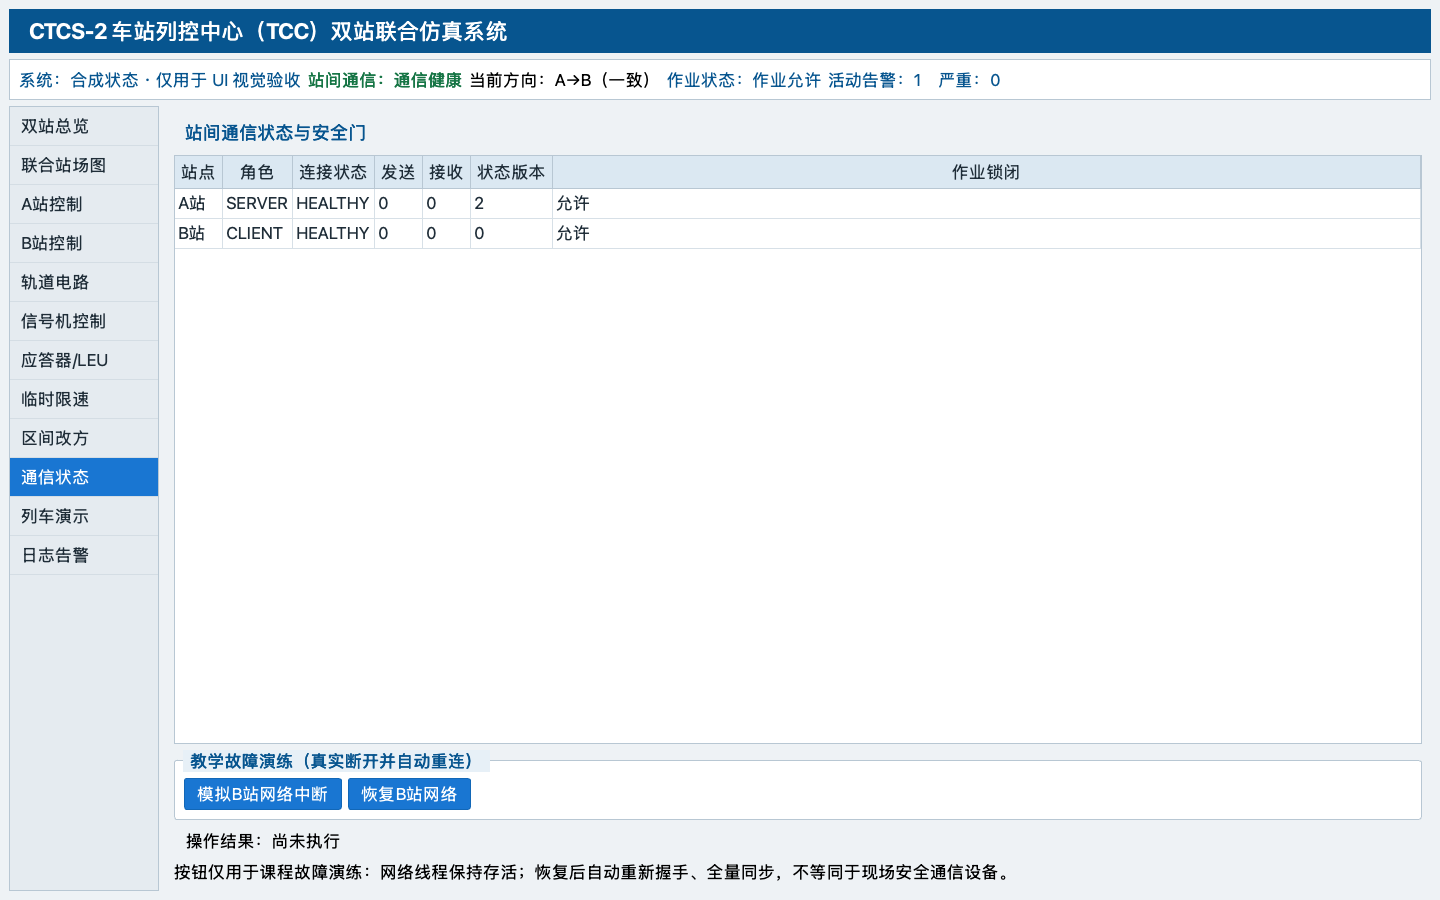
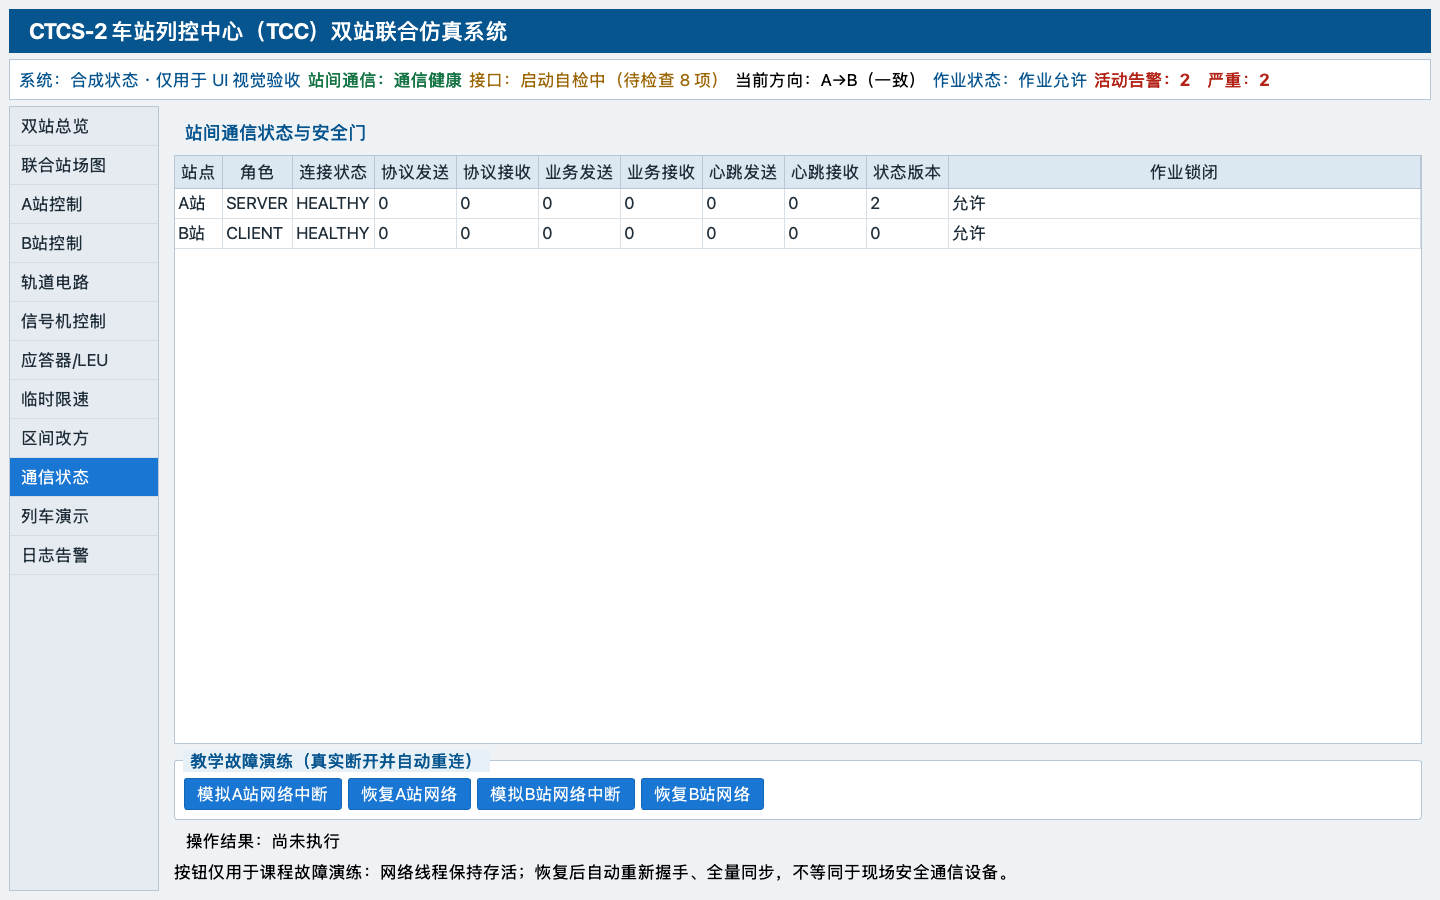
docs: record ctcs2 specification acceptance evidence

diff --git a/tests/integration/test_ctcs2_spec_scenarios.py b/tests/integration/test_ctcs2_spec_scenarios.py
@@ -1,0 +1,62 @@
+"""CTCS-2 规范场景验收矩阵：把关键要求绑定到可执行证据。"""
+
+import json
+from pathlib import Path
+
+from app.core.interface_models import InterfaceId, StartupStep
+from app.domain.temporary_speed import CTCS2_TSR_SPEEDS_KMH
+from app.services.demo_scenarios import DELIVERY_SCENARIOS
+
+
+ROOT = Path(__file__).resolve().parents[2]
+
+
+def test_delivery_catalog_covers_all_ctcs2_demo_scenario_ids() -> None:
+    scenario_ids = {item.scenario_id for item in DELIVERY_SCENARIOS}
+    assert scenario_ids == {
+        "all-clear",
+        "block-occupied",
+        "track-fault",
+        "red-lamp-failure",
+        "temporary-speed",
+        "direction-change-normal",
+        "direction-change-disconnect",
+    }
+    for scenario in DELIVERY_SCENARIOS:
+        assert scenario.preconditions
+        assert scenario.control_object_names
+        assert scenario.steps
+        assert scenario.expected_results
+        assert scenario.reset_steps
+
+
+def test_ctcs2_spec_configuration_matrix_is_complete() -> None:
+    rules = json.loads((ROOT / "configs" / "ctcs2_tsr_levels.json").read_text())
+    assert tuple(rules["allowed_speeds_kmh"]) == CTCS2_TSR_SPEEDS_KMH
+    assert rules["overlap_m"] == 80
+    assert set(rules["required_fields"]) == {
+        "start_m",
+        "end_m",
+        "braking_distance_m",
+        "tcc_id",
+        "update_point",
+    }
+    coding = json.loads((ROOT / "configs" / "ctcs2_coding_rules.json").read_text())
+    protection = json.loads(
+        (ROOT / "configs" / "ctcs2_protection_rules.json").read_text()
+    )
+    assert coding["offline_code"] == "OFFLINE"
+    assert protection["unknown_state_action"] == "HU"
+
+
+def test_interface_and_startup_matrix_matches_ctcs2_requirement() -> None:
+    assert tuple(InterfaceId) == tuple(InterfaceId(letter) for letter in "PQRSTUVW")
+    assert tuple(step.interface_id for step in StartupStep) == (
+        InterfaceId.R,
+        InterfaceId.T,
+        InterfaceId.R,
+        InterfaceId.T,
+        InterfaceId.Q,
+        InterfaceId.U,
+        InterfaceId.S,
+    )

diff --git a/scripts/capture_dual_dashboard.py b/scripts/capture_dual_dashboard.py
@@ -72,6 +72,7 @@ def main() -> int:
             (8, "direction"),
             (9, "network"),
             (10, "train"),
+            (11, "logs"),
         )
         for width, height in ((1280, 800), (1440, 900), (1920, 1080)):
             window.resize(width, height)

diff --git a/docs/acceptance/CTCS2_SPEC_ACCEPTANCE.md b/docs/acceptance/CTCS2_SPEC_ACCEPTANCE.md
@@ -1,0 +1,68 @@
+# CTCS-2 规范场景验收记录
+
+验收日期：2026-09-27  
+分支：`codex/dual-station-dashboard`  
+工作树：`/Users/zhu/Desktop/TCC-project/.worktrees/ctcs2-rebuild`
+
+本记录用于课程设计软件验收，不是现场铁路设备鉴定。JSON、HEX、CRC32、教学位流
+均属于 `simulation_envelope`；2 乘 2 取 2、SIL4、MTBF、物理冗余和安全通信只在
+教学诊断模型中表达，不宣称 Python/Qt 达到现场安全等级。
+
+## 自动化证据
+
+```bash
+PYTHONPYCACHEPREFIX=/tmp/tcc-pycache QT_QPA_PLATFORM=offscreen \
+  .venv/bin/python -m pytest -q -p no:cacheprovider \
+  --basetemp=/tmp/tcc-pytest-bt
+```
+
+阶段 8 新增规范矩阵测试 3 项通过；阶段 0～7 全量回归在允许本机回环 TCP 端口的
+环境中最终为 `321 passed in 7.78s`。普通受限沙箱
+禁止绑定临时端口时，真实 TCP 用例会得到 `PermissionError`，这属于环境限制，不
+替代业务失败证据。
+
+## 规范要求与证据矩阵
+
+| 范围 | 软件证据 | 场景/测试 |
+|---|---|---|
+| 双站身份与接口 | A/B 独立配置、P/Q/R/S/T/U/V/W 状态模型、启动自检顺序 | `test_ctcs2_spec_scenarios.py`、`test_startup_self_check.py` |
+| 本地权威与站间确认 | A/B 本地轨道/信号/进路/LEU 状态，方向事务双方复核 | `test_local_authority_state.py`、`test_interstation_agreement.py`、改方集成测试 |
+| 轨道占用/故障/分路不良 | `FAULT_OCCUPIED`、`SHUNT_BAD`、HU 防护、顺序出清、编码离线红灯 | `test_track_protection_cases.py`、七类场景中的轨道故障 |
+| 区间信号与进路 | 进路前置条件由控制器判断，信号由码序/继电器/防护结果导出 | `test_signal_control.py`、`test_route_control.py`、`all-clear`/`red-lamp-failure` |
+| 应答器/LEU | 20% 容量余量、默认回落、选择审计、逻辑字段/教学位流/仿真封装分层 | `test_leu_capacity_and_audit.py`、`test_logical_telegram.py` |
+| 临时限速 | 45/80/120/160/200/250 km/h、80 m 重叠保护、制动距离/TCC/更新点 | `test_ctcs2_tsr_rules.py`、`temporary-speed` |
+| 站间断链 | 已有方向/限速/报文保持；断链后锁闭，重连全量同步和复核 | `test_dual_station_end_to_end.py`、`test_interface_failure_recovery.py` |
+| 列车演示 | 拓扑驱动 2D 线路、列车选择、逐段占用、应答器更新、选中列车复位重发车 | `test_train_projection.py`、`test_train_2d_view.py`、`test_dual_train_coordinator.py` |
+| 日志告警 | A 上 B 下逐条事件，活动/恢复文字，最多 200 条，心跳不入业务日志 | `test_dual_log_page.py`、`test_tcc_controller.py` |
+
+## 场景执行结果
+
+1. 启动自检与双站握手：启动状态先显示 `INITIALIZING`，失败不会伪造健康；真实
+   TCP 测试验证 HELLO/ACK、全量同步、健康状态和关闭资源回收。
+2. A→B 运行：建立 `A_DEPART` 后，列车通过 `TrainProjectionMapper` 映射到
+   `A_T1 → A_T2 → Q1…Q4 → B_T2 → B_T1`，区段先占后清，最后应答器字段更新。
+3. 选中列车复位：下拉框保存稳定 `train_id`；`reset_train()` 成功后回到
+   `WAITING`、递增 `lifecycle_version`，可再次派发；失败保留停车和保守占用。
+4. 故障占用/分路不良：HU 和红灯防护保持，按后方出清顺序完成后才撤防，逐条
+   告警可在 A/B 日志页查看。
+5. 正常/异常改方：空闲且无冲突进路时完成事务；占用、方向不一致、通信异常或
+   事务超时保持安全锁闭，不由 UI 绕过控制器。
+6. 临时限速和 LEU：六档等级、重叠禁止、容量不足、LEU 断联默认回落及审计原因
+   均有单元/集成证据；逻辑报文不冒充现场位流。
+7. A/B 对称断链：通信页分别提供 A、B 链路故障入口，区间改方页提供逻辑对端
+   断链入口；三者都只调用后端故障注入接口，恢复后自动重连和全量同步。
+
+## UI 证据边界
+
+三分辨率合成截图由 `scripts/capture_dual_dashboard.py` 生成，仅用于检查方案一
+经典控制台风格、关键字段可见性、2D 列车和 A/B 日志布局；不能证明 TCP 握手。
+真实通信、状态和资源证据以 pytest 集成为准。建议重新生成：
+
+```bash
+QT_QPA_PLATFORM=offscreen .venv/bin/python scripts/capture_dual_dashboard.py
+```
+
+## 结论
+
+阶段 0～7 的代码、测试和交接账本已完成；阶段 8 的自动化规范矩阵、场景证据和
+交付文档已纳入仓库。软件可用于 CTCS-2 课程答辩演示，不得用于真实铁路行车控制。

diff --git a/docs/sdd-ledger/08-ctcs2-spec-and-ui-train-optimization-progress.md b/docs/sdd-ledger/08-ctcs2-spec-and-ui-train-optimization-progress.md
@@ -16,8 +16,8 @@
 - 阶段 4：已完成（`87cf2eb`，已推送）
 - 阶段 5：已完成（`cc1880b`，已推送）
 - 阶段 6：已完成（`aa366d3`，已推送）
-- 阶段 7：未开始
-- 阶段 8：未开始
+- 阶段 7：已完成（`3c9446c`，已推送）
+- 阶段 8：已完成（交付证据待本次提交）
 
 ## 阶段 0 完成记录
 
@@ -137,3 +137,33 @@
 - 代码提交 `aa366d3` 已推送到 `origin/codex/dual-station-dashboard`。
 - 交接下一步：阶段 7 组合页面、下拉框统一策略和交互一致性；重点验证列车场景、日志
   页面和全局安全锁闭在刷新时保持同步。
+
+## 阶段 7 完成记录
+
+- 统一列车角色下拉框最小宽度与弹出宽度测试，验证方向、运行状态等长文本不会被截断；
+  既有站点、区段、信号、进路、方向和限速下拉框继续经过 `configure_combo_box()`。
+- 列车页面全部复位按钮纳入双站聚合安全锁闭门禁，锁闭原因仍由快照聚合器提供，UI
+  不自行判断通信或方向规则。
+- 通信页新增 A 站网络中断/恢复入口，保留 B 站入口；两者均通过运行时故障注入接口，
+  另有区间改方页的逻辑对端断链演练，覆盖 A/B/逻辑链路三类教学路径。
+- 阶段定向测试 `21 passed`；允许本机回环端口的全量回归 `318 passed in 7.81s`；
+  `git diff --check`、`compileall` 通过。
+- 代码提交 `3c9446c` 已推送到 `origin/codex/dual-station-dashboard`。
+- 交接下一步：阶段 8 规范场景验收、截图/日志证据、README 和最终交付记录；只有完成
+  场景证据后才能宣称本轮 CTCS-2 改造交付完成。
+
+## 阶段 8 完成记录
+
+- 新增 `tests/integration/test_ctcs2_spec_scenarios.py`，绑定七类课程场景目录、
+  CTCS-2 六档限速/80 m 重叠/必需字段、编码离线与 HU 防护配置、P/Q/R/S/T/U/V/W
+  接口及启动自检映射；规范矩阵 3 项通过。
+- 新增 `docs/acceptance/CTCS2_SPEC_ACCEPTANCE.md`，逐项记录规范要求、软件落点、
+  自动化测试、场景边界和教学免责声明；同步修正 README/交付场景中的 A/B 本地
+  权威语义，不再把 A Server 描述成 B 站永久投影权威。
+- `scripts/capture_dual_dashboard.py` 增加日志告警页截图；重新生成 1280×800、
+  1440×900、1920×1080 的总览、线路、改方、网络、列车、A/B 日志共 18 张合成图，
+  并完成列车页与日志页目视抽查。图片只证明布局，不替代真实 TCP 证据。
+- 最终完整回归：`321 passed in 7.78s`（允许本机回环 TCP 端口）；`compileall`、
+  `git diff --check` 和截图脚本通过。
+- 阶段 8 代码/文档/证据提交待本次提交后补写；本轮方案完成后，如有新需求须先建立
+  新阶段方案并继续使用防中断账本。

diff --git a/docs/HANDOFF_交接说明.md b/docs/HANDOFF_交接说明.md
@@ -7,7 +7,7 @@
 - 项目：CTCS-2 车站列控中心（TCC）A/B 双站教学仿真
 - 工作树：`/Users/zhu/Desktop/TCC-project/.worktrees/ctcs2-rebuild`
 - 分支：`codex/dual-station-dashboard`
-- 代码状态：阶段 0～阶段 6 已完成；工作区干净，远端已同步
+- 代码状态：阶段 0～阶段 8 已完成；工作区干净，远端已同步
 - 方案：`docs/tcc-vibe-plans/08-ctcs2-spec-and-ui-train-optimization.md`
 
 ## 本次方案已覆盖
@@ -29,20 +29,20 @@
 4. 阶段 3：应答器/LEU、临时限速和断链保持（已完成）；
 5. 阶段 4：接口状态、启动自检和诊断教学模型（已完成）；
 6. 阶段 5：实现列车 2D 场景和可重复生命周期（已完成）；
-7. 阶段 6～7：实现 A/B 日志页及页面集成（阶段 6 已完成，阶段 7 未开始）；
-8. 阶段 8：按规范场景做全量验收和交付。
+7. 阶段 6～7：实现 A/B 日志页及页面集成（阶段 6、7 已完成）；
+8. 阶段 8：按规范场景做全量验收和交付（已完成）。
 
 ## 最近一次阶段记录
 
-- 阶段：6
+- 阶段：8
 - 状态：已完成
-- 代码提交：`aa366d3 feat(ui): split station logs and alarms into row-based panels`
+- 代码提交：待提交（阶段 8 交付证据）
 - 推送分支：`origin/codex/dual-station-dashboard`
-- 定向测试：日志页、告警历史、控制器和双站主窗口共 30 项通过（真实 TCP 另纳入全量）
-- 全量测试：`316 passed in 8.05s`（允许本机回环端口）
-- 产物：`TccSnapshot.alarm_history`、`LogAlarmRow`、`DualLogAlarmPage`，A/B 上下表格、逐条操作/告警/恢复事件、每站 200 条上限
-- 关键语义：活动/已恢复状态用文字表达；告警恢复时间优先使用 `cleared_at_ms`；未把心跳活性刷新写入业务日志；长说明保留 tooltip
-- 下一步：阶段 7，组合页面、统一下拉宽度和交互门禁；开始前重新读取本文件、总控方案和阶段 7 小节
+- 定向测试：规范矩阵 3 项通过；完整规范/真实 TCP/UI 回归共 321 项通过
+- 全量测试：`321 passed in 7.78s`（允许本机回环端口）
+- 产物：`CTCS2_SPEC_ACCEPTANCE.md`、更新后的答辩场景/README、18 张三分辨率合成截图、规范矩阵测试
+- 关键语义：A/B 各自维护本站局部权威；Server/Client 只表示 TCP 建链顺序；规范边界、2D 列车、A/B 日志和三类断链入口均有可重建证据
+- 下一步：本轮方案完成；若继续开发，先创建新的阶段方案，不要在无新验收门槛时直接修改已交付功能
 
 ## 固定验证命令
 

diff --git a/README.md b/README.md
@@ -40,10 +40,11 @@ python3.12 -m venv .venv
 .venv/bin/python run_dual.py
 ```
 
-该进程内装配两套相互独立的控制器、SQLite 仓库和网络线程；A 仍作为
-Server 完成 `bind + listen`，B 仍作为 Client 通过真实 `127.0.0.1` TCP
-握手、同步和重连，并非用内存调用伪造站间通信。窗口提供 12 个页面：双站
-总览、联合站场图、A/B 站控制、轨道电路、信号机、应答器/LEU、临时限速、
+该进程内装配两套相互独立的控制器、SQLite 仓库和网络线程；A 作为
+Server 完成 `bind + listen`，B 作为 Client 通过真实 `127.0.0.1` TCP
+握手、同步和重连，这只是通信启动顺序，并不代表 A 永久拥有 B 的业务真值。
+A、B 各自维护本站轨道、信号、进路和 LEU 的本地权威状态，区间方向/闭塞等
+共享条件须经双方事务确认。窗口提供 12 个页面：双站总览、联合站场图、A/B 站控制、轨道电路、信号机、应答器/LEU、临时限速、
 区间改方、通信状态、列车演示和日志告警。
 
 需要分站诊断时可分别启动单站：
@@ -82,12 +83,16 @@ PYTHONPYCACHEPREFIX=/tmp/tcc-pycache \
 视觉证据见
 [`docs/acceptance/DUAL_STATION_FINAL_ACCEPTANCE.md`](docs/acceptance/DUAL_STATION_FINAL_ACCEPTANCE.md)。
 
+CTCS-2 规范要求追踪与阶段场景验收见
+[`docs/acceptance/CTCS2_SPEC_ACCEPTANCE.md`](docs/acceptance/CTCS2_SPEC_ACCEPTANCE.md)。
+
 列车页是教学动画：必须先建立当前方向的发车进路，再创建并发送列车。列车
 占用只写 `TRAIN` 来源，复位或跨区出清不会清除人工占用、故障占用或分路不良。
 
 ## 关键安全降级规则
 
-- A Server 是唯一区间方向权威；B 只保存投影。
+- A/B 各自维护本站局部权威；A Server/B Client 只表示教学仿真的 TCP 建链顺序，
+  不能把 B 站当作 A 站投影。区间方向和闭塞使用双方确认的共享事务。
 - 启动、断线、快照过期、改方未确认或恢复未完成时，进路锁闭且信号保持红灯。
 - A 的新权威方向必须先持久化，再在内存 APPLY 并发送 COMMIT。
 - 数据库权威方向读取失败时阻止启动，不能用默认方向覆盖未知历史真值。

diff --git a/docs/DELIVERY_SCENARIOS.md b/docs/DELIVERY_SCENARIOS.md
@@ -65,7 +65,14 @@
 
 ## 列车演示补充
 
-当前方向为 `A_TO_B` 时在 A 建立 `A_DEPART`，随后在“列车演示”页依次单击“添加待发列车”“发送选中列车”“开始仿真”；反向时在 B 建立 `B_DEPART`。唯一联合协调器按 `A_T1 → A_T2 → Q1～Q4 → B_T2 → B_T1`（反向严格逆序）运行，区段顺序和长度来自 `configs/topology.json`，没有 G01～G08 硬编码。状态表持续显示列车 ID、方向、区段、位置、当前/目标速度、前方距离、最后应答器和安全状态。该动画只用于观察 TCC 联动，不表示真实列车动力学、制动曲线或车载 ATP 行为。
+当前方向为 `A_TO_B` 时在 A 建立 `A_DEPART`，随后在“列车演示”页先从“列车：▼”下拉框确认列车，再依次单击“发送选中列车”“开始仿真”；反向时在 B 建立 `B_DEPART`。唯一联合协调器按 `A_T1 → A_T2 → Q1～Q4 → B_T2 → B_T1`（反向严格逆序）运行，区段顺序和长度来自 `configs/topology.json`，没有 G01～G08 硬编码。状态表和 2D 场景持续显示列车 ID、方向、区段、位置、当前/目标速度、前方距离、最后应答器和安全状态。选中指定列车后点击“复位选中列车”，列车回到 `WAITING` 并可再次派发；“全部复位”需要二次确认。该动画只用于观察 TCC 联动，不表示真实列车动力学、制动曲线或车载 ATP 行为。
+
+## A/B 日志告警查看
+
+进入“日志告警”页后，上方固定 A 站、下方固定 B 站；每条操作、活动告警和告警恢复
+独立占一行，长说明可悬停查看。每站最多显示 200 条，心跳和快照活性刷新不会制造
+业务日志。切换通信页可分别模拟 A 站或 B 站链路中断/恢复；区间改方页提供逻辑对端
+断链演练，三类入口都必须通过后端故障注入接口。
 
 ## 操作结果判读
 

diff --git a/docs/acceptance/DUAL_STATION_UI_ACCEPTANCE.md b/docs/acceptance/DUAL_STATION_UI_ACCEPTANCE.md
@@ -1,6 +1,6 @@
 # 双站同屏 UI 视觉验收记录
 
-验收日期：2026-09-26
+验收日期：2026-09-27
 
 分支：`codex/dual-station-dashboard`
 
@@ -29,6 +29,7 @@ QT_QPA_PLATFORM=offscreen .venv/bin/python scripts/capture_dual_dashboard.py
 | 区间改方 | [图片](dual-dashboard/synthetic_ui_direction_1280x800.png) | [图片](dual-dashboard/synthetic_ui_direction_1440x900.png) | [图片](dual-dashboard/synthetic_ui_direction_1920x1080.png) |
 | 通信状态 | [图片](dual-dashboard/synthetic_ui_network_1280x800.png) | [图片](dual-dashboard/synthetic_ui_network_1440x900.png) | [图片](dual-dashboard/synthetic_ui_network_1920x1080.png) |
 | 列车演示 | [图片](dual-dashboard/synthetic_ui_train_1280x800.png) | [图片](dual-dashboard/synthetic_ui_train_1440x900.png) | [图片](dual-dashboard/synthetic_ui_train_1920x1080.png) |
+| 日志告警（A上B下） | [图片](dual-dashboard/synthetic_ui_logs_1280x800.png) | [图片](dual-dashboard/synthetic_ui_logs_1440x900.png) | [图片](dual-dashboard/synthetic_ui_logs_1920x1080.png) |
 
 ## 目视检查结果
 
@@ -40,6 +41,8 @@ QT_QPA_PLATFORM=offscreen .venv/bin/python scripts/capture_dual_dashboard.py
   最终显示、一致性和判定依据，高分辨率空间用于有效信息。
 - 区间改方页同时显示权威/投影角色、方向、通信、版本、事务阶段、锁闭状态和
   四项安全前置条件；故障演练按钮有明确措辞。
+- 列车演示页显示稳定列车下拉框、2D 拓扑线路、区段/位置/速度/应答器和安全状态，
+  日志告警页固定 A 站上方、B 站下方并逐条列出操作、活动告警和恢复事件。
 - 轨道状态使用深灰/红/棕/黄黑语义色，通信和告警同时给出文字；整体保持
   浅灰白背景、蓝色导航、白色细边框面板和紧凑表格。
 

diff --git a/docs/acceptance/DUAL_STATION_FINAL_ACCEPTANCE.md b/docs/acceptance/DUAL_STATION_FINAL_ACCEPTANCE.md
@@ -1,16 +1,19 @@
 # 双站同屏最终验收记录
 
-验收日期：2026-09-26
+验收日期：2026-09-27
 
 分支：`codex/dual-station-dashboard`
 
 推荐入口：`run_dual.py`
 
+CTCS-2 规范补充矩阵与阶段 0～8 证据见
+[`CTCS2_SPEC_ACCEPTANCE.md`](CTCS2_SPEC_ACCEPTANCE.md)。
+
 ## 自动化与真实运行证据
 
 | 验收项 | 结果 | 可重建证据 |
 |---|---|---|
-| 全量回归 | 通过，`264 passed` | `QT_QPA_PLATFORM=offscreen .venv/bin/python -m pytest -p no:cacheprovider -q` |
+| 全量回归 | 通过，`321 passed` | `QT_QPA_PLATFORM=offscreen .venv/bin/python -m pytest -p no:cacheprovider -q` |
 | 真实双站握手/同步 | 通过 | `test_real_window_handshake_sync_fault_and_reconnect` |
 | 真实故障断开/自动重连 | 通过 | 同上；验证通信非健康、锁闭、恢复 HEALTHY、计数增长和双向全量快照 |
 | 正向列车/正常改方/反向列车 | 通过 | `test_real_tcp_runtime_runs_forward_changes_direction_and_runs_reverse` |
@@ -69,6 +72,7 @@
 - 单进程双站同屏仍由两个独立运行时通过真实 TCP 交换信息；单站与多进程入口
   仅保留用于诊断。
 
-结论：第五阶段自动化、真实运行、生命周期、工程故障和视觉验收通过；最终
-独立复审无 Critical/Important，配置、编译、差异和正式包边界检查均通过，
-待 Git 提交推送后形成交付检查点。
+结论：既有双站自动化、真实运行、生命周期、工程故障和视觉验收通过；阶段 0～7
+的 CTCS-2 规范对齐、2D 列车、A/B 日志告警和交互一致性已追加完成。阶段 8 的
+规范矩阵与交付边界见 [`CTCS2_SPEC_ACCEPTANCE.md`](CTCS2_SPEC_ACCEPTANCE.md)；
+所有能力仍限定为课程教学仿真，不得用于真实铁路控制。

diff --git a/docs/IMPLEMENTATION_STATUS.md b/docs/IMPLEMENTATION_STATUS.md
@@ -224,7 +224,8 @@
 | 4 接口状态、自检与诊断 | 已完成 | `87cf2eb` | 309 passed |
 | 5 列车 2D 场景与可重复生命周期 | 已完成 | `cc1880b` | 314 passed |
 | 6 A/B 日志告警页 | 已完成 | `aa366d3` | 316 passed |
-| 7 集成与交付验收 | 未开始 | — | — |
+| 7 UI 组合与交互一致性 | 已完成 | `3c9446c` | 318 passed |
+| 8 规范场景验收与交付 | 已完成 | 待提交（本次交付证据） | 321 passed |
 
 阶段 4 产物包括 P/Q/R/S/T/U/V/W 接口状态模型、启动自检服务、教学主备诊断模型、
 相邻 TCC U 接口故障恢复映射和全局状态栏汇总。下一步只执行阶段 5，不跨阶段修改
